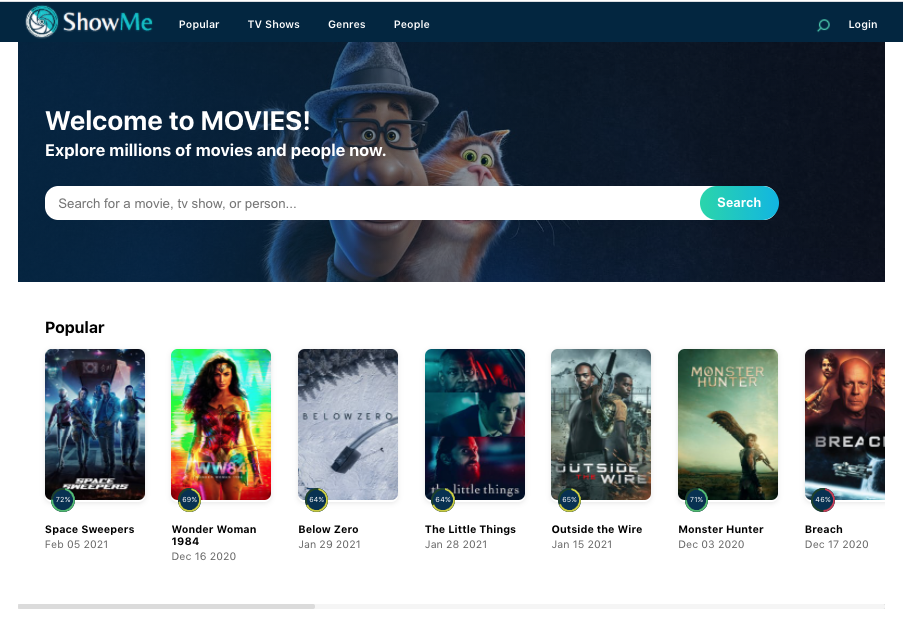
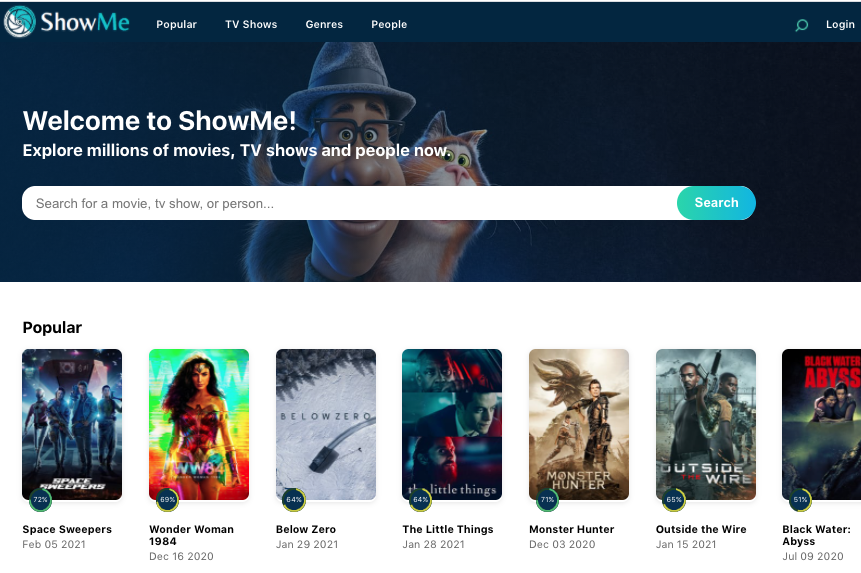
fix the site name and update the image in README (#72)

diff --git a/src/app/HomeBanner.jsx b/src/app/HomeBanner.jsx
@@ -55,8 +55,8 @@ export const HomeBanner = ({ headerImageId }) => {
 
   return (
     <BannerHome imageUrl={imageUrl}>
-      <StyleH1>Welcome to MOVIES!</StyleH1>
-      <StyleH3>Explore millions of movies and people now.</StyleH3>
+      <StyleH1>Welcome to ShowMe!</StyleH1>
+      <StyleH3>Explore millions of movies, TV shows and people now.</StyleH3>
       <FormStyle>
         <Input
           type='text'
